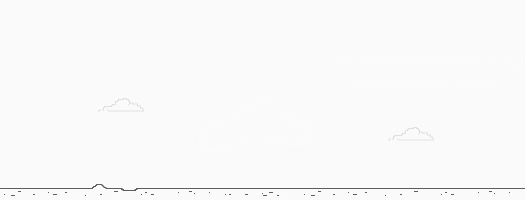
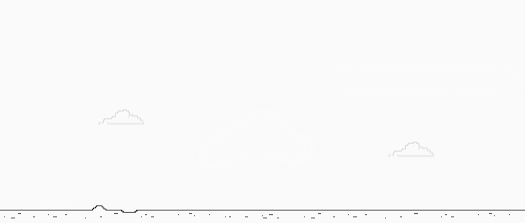
adjusted background in dino runner

Changed region(s): [[0.0, 0.93, 1.0, 0.99]]

diff --git a/dino-runner/dino-runner.css b/dino-runner/dino-runner.css
@@ -58,7 +58,7 @@
     background-repeat: repeat-x;
     animation: slideright 600s infinite linear;
     width: 100%;
-    height: 200px;
+    height: 223px;
 }
 
 @keyframes slideright {
